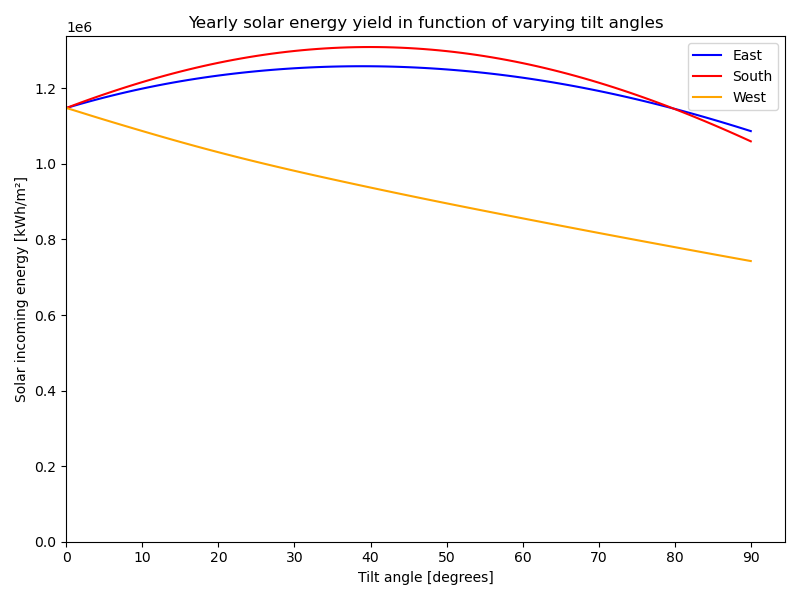
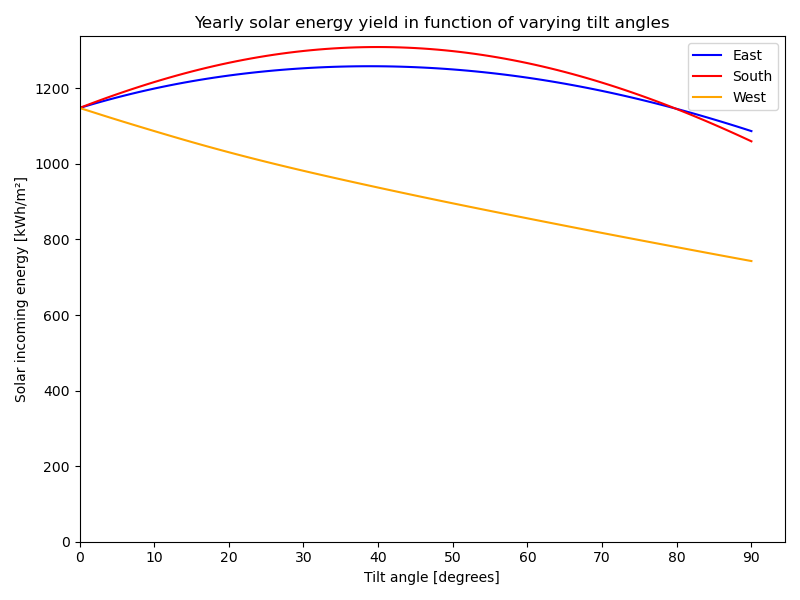
added fast case

diff --git a/effective_irradiance/solar irradiance_v2.py b/effective_irradiance/solar irradiance_v2.py
@@ -321,45 +321,96 @@ if all_angles_case:
 
     # np.save('Output_data/total_irradiance_for_all_angles',total_irradiance_for_all_angles)
 
+
+all_angles_case_fast = True
+if all_angles_case_fast:
+
+    tilt_angles = range(91)
+    granularity = 1
+    time_steps = 365*24*granularity
+
+    total_irradiance_for_all_angles_fast = np.zeros((len(tilt_angles),3,time_steps))
+
+    for tilt_angle in tilt_angles:
+        total_irradiance = np.zeros((3,time_steps))
+        for i in range(time_steps):
+            exact_moment = date_time[i]
+            zenith_angle, azimuth_angle = get_sun_position(latitude,longitude,exact_moment)
+            GHI = global_horizontal_irradiance[i]
+            DHI = global_diffusive_irradiance[i]
+            total_irradiance_E, total_irradiance_S, total_irradiance_W = get_solar_irradiance(GHI,DHI,tilt_angle,tilt_angle,azimuth_angle,zenith_angle)
+            total_irradiance[0,i] = total_irradiance_E
+            total_irradiance[1,i] = total_irradiance_S
+            total_irradiance[2,i] = total_irradiance_W
+        total_irradiance_for_all_angles_fast[tilt_angle,:,:] = total_irradiance
+        print(f"Finished total irradiance calculations of tilt_angle {tilt_angle+1}/{len(tilt_angles)}")
+
+    total_incoming_energy_for_all_angles_fast = np.sum(total_irradiance_for_all_angles_fast,axis=2)*60*int(60/granularity)/3600/1000
+    print(f'Optimal angle East: {np.argmax(total_incoming_energy_for_all_angles_fast[:,0])} degrees')
+    print(f'Optimal angle South: {np.argmax(total_incoming_energy_for_all_angles_fast[:,1])} degrees')
+    print(f'Optimal angle West: {np.argmax(total_incoming_energy_for_all_angles_fast[:,2])} degrees')
+
+    x=[i*10 for i in range(10)]
+    plt.figure(figsize=(8, 6))  # Set the figure size
+    plt.xticks(x,x,fontsize=10)
+    plt.plot(total_incoming_energy_for_all_angles_fast[:,0],label='East', color='blue')
+    plt.plot(total_incoming_energy_for_all_angles_fast[:,1],label='South', color='red')
+    plt.plot(total_incoming_energy_for_all_angles_fast[:,2], label='West', color='orange')
+    plt.xlim(left=0)
+    plt.ylim(bottom=0)
+    plt.title(f'Yearly solar energy yield in function of varying tilt angles')
+    plt.xlabel('Tilt angle [degrees]')
+    plt.ylabel('Solar incoming energy [kWh/m²]')
+    plt.legend()  # Add a legend
+    # plt.grid(True)  # Add a grid
+    # plt.tight_layout()  # Fit the plot nicely into the figure
+    output_file_path = f'Output_data/figures/yearly_solar_energy_yield_per_angle_fast_granularity_{granularity}'
+    # plt.savefig(output_file_path)
+    plt.show()
+
 """# Optimal angle calculation"""
 #for all tilt angles werkt niet (OSError: 143488800 requested and 35056128 written)?
 # total_irradiance_for_all_angles = np.load('Output_data/total_irradiance_for_all_angles.npy')
 
-#per tilt angle
-tilt_angles = range(91)
-total_irradiance_for_all_angles = np.zeros((len(tilt_angles),3,date_time.shape[0]))
-for tilt_angle in range(len(tilt_angles)):
-    total_irradiance_angle = np.load(f'Output_data/total_irradiance_per_angle/total_irradiance_for_tilt_angle_{tilt_angle}.npy')
-    total_irradiance_for_all_angles[tilt_angle,:,:] = total_irradiance_angle
-
-
-#integrate
-#kWh/m^2
-total_incoming_energy_for_all_angles = np.sum(total_irradiance_for_all_angles,axis=2)/60
-
-x=[i*10 for i in range(10)]
+# #per tilt angle
+# tilt_angles = range(91)
+# total_irradiance_for_all_angles = np.zeros((len(tilt_angles),3,date_time.shape[0]))
+# for tilt_angle in range(len(tilt_angles)):
+#     total_irradiance_angle = np.load(f'Output_data/total_irradiance_per_angle/total_irradiance_for_tilt_angle_{tilt_angle}.npy')
+#     total_irradiance_for_all_angles[tilt_angle,:,:] = total_irradiance_angle
+#
+#
+# #integrate
+# #kWh/m^2
+# total_incoming_energy_for_all_angles = np.sum(total_irradiance_for_all_angles,axis=2)/60/1000
+# print(total_incoming_energy_for_all_angles.shape)
+# print(f'Optimal angle East: {np.argmax(total_incoming_energy_for_all_angles[:,0])} degrees')
+# print(f'Optimal angle South: {np.argmax(total_incoming_energy_for_all_angles[:,1])} degrees')
+# print(f'Optimal angle West: {np.argmax(total_incoming_energy_for_all_angles[:,2])} degrees')
+#
+# x=[i*10 for i in range(10)]
 # l=[10*i for i in x]
 # l=[]
 # for i in range(24):
 #       l.append("%s:00"%i)
       # l.append(" ")
-
-plt.figure(figsize=(8, 6))  # Set the figure size
-plt.xticks(x,x,fontsize=10)
-plt.plot(total_incoming_energy_for_all_angles[:,0],label='East', color='blue')
-plt.plot(total_incoming_energy_for_all_angles[:,1],label='South', color='red')
-plt.plot(total_incoming_energy_for_all_angles[:,2], label='West', color='orange')
-plt.xlim(left=0)
-plt.ylim(bottom=0)
-plt.title(f'Yearly solar energy yield in function of varying tilt angles')
-plt.xlabel('Tilt angle [degrees]')
-plt.ylabel('Solar incoming energy [kWh/m²]')
-plt.legend()  # Add a legend
-# plt.grid(True)  # Add a grid
-plt.tight_layout()  # Fit the plot nicely into the figure
-output_file_path = f'Output_data/figures/yearly_solar_energy_yield_per_angle'
-plt.savefig(output_file_path)
-plt.show()
+#
+# plt.figure(figsize=(8, 6))  # Set the figure size
+# plt.xticks(x,x,fontsize=10)
+# plt.plot(total_incoming_energy_for_all_angles[:,0],label='East', color='blue')
+# plt.plot(total_incoming_energy_for_all_angles[:,1],label='South', color='red')
+# plt.plot(total_incoming_energy_for_all_angles[:,2], label='West', color='orange')
+# plt.xlim(left=0)
+# plt.ylim(bottom=0)
+# plt.title(f'Yearly solar energy yield in function of varying tilt angles')
+# plt.xlabel('Tilt angle [degrees]')
+# plt.ylabel('Solar incoming energy [kWh/m²]')
+# plt.legend()  # Add a legend
+# # plt.grid(True)  # Add a grid
+# plt.tight_layout()  # Fit the plot nicely into the figure
+# output_file_path = f'Output_data/figures/yearly_solar_energy_yield_per_angle'
+# # plt.savefig(output_file_path)
+# # plt.show()
 
 
 """#Plotting"""
